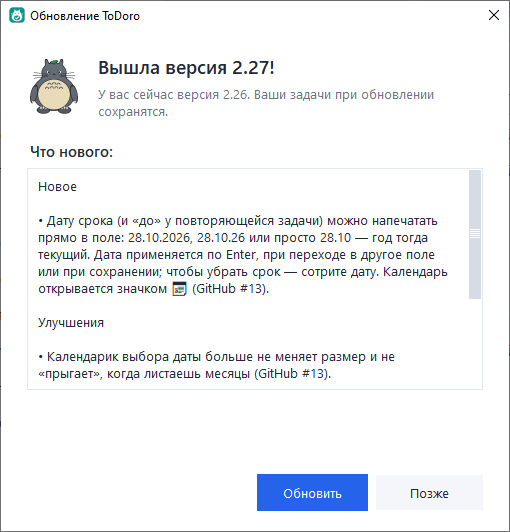
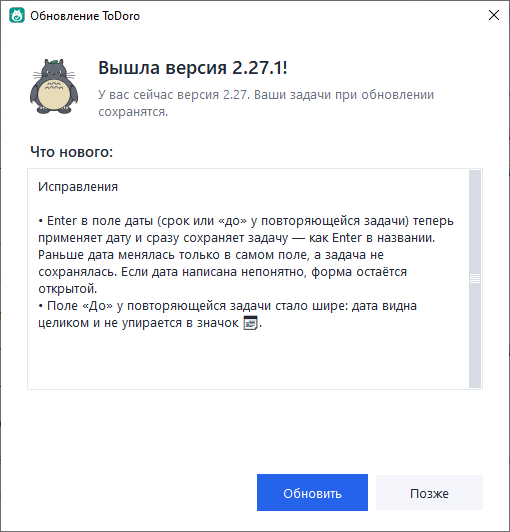
Версия 2.27.1

diff --git a/todoro.py b/todoro.py
@@ -38,7 +38,7 @@ from examples import make_examples
 from help_text import HELP
 
 APP_NAME = "ToDoro"  # ToDo + Totoro
-APP_VERSION = "2.27"  # номер версии — меняется здесь (установщик берёт его отсюда)
+APP_VERSION = "2.27.1"  # номер версии — меняется здесь (установщик берёт его отсюда)
 APP_YEAR = 2026
 COPYRIGHT_HOLDER = "Machinist Soft"  # автор — имя меняется здесь и в файле LICENSE
 COPYRIGHT = f"© {APP_YEAR} {COPYRIGHT_HOLDER}"

diff --git a/RELEASE_NOTES.md b/RELEASE_NOTES.md
@@ -3,9 +3,11 @@
 Здесь записано, что менялось от версии к версии. Новые записи — сверху.
 Скачать установщик любой версии: https://github.com/machinist-soft/ToDoro/releases
 
-## Не выпущено
+## 2.27.1 — 28.10.2026
 
-- Enter в поле даты (срок или «до» у повторяющейся задачи) применяет дату и сразу сохраняет задачу — как Enter в названии. Если дата написана непонятно, форма остаётся открытой.
+### Исправления
+
+- Enter в поле даты (срок или «до» у повторяющейся задачи) теперь применяет дату и сразу сохраняет задачу — как Enter в названии. Раньше дата менялась только в самом поле, а задача не сохранялась. Если дата написана непонятно, форма остаётся открытой.
 - Поле «До» у повторяющейся задачи стало шире: дата видна целиком и не упирается в значок 📅.
 
 ## 2.27 — 28.10.2026
